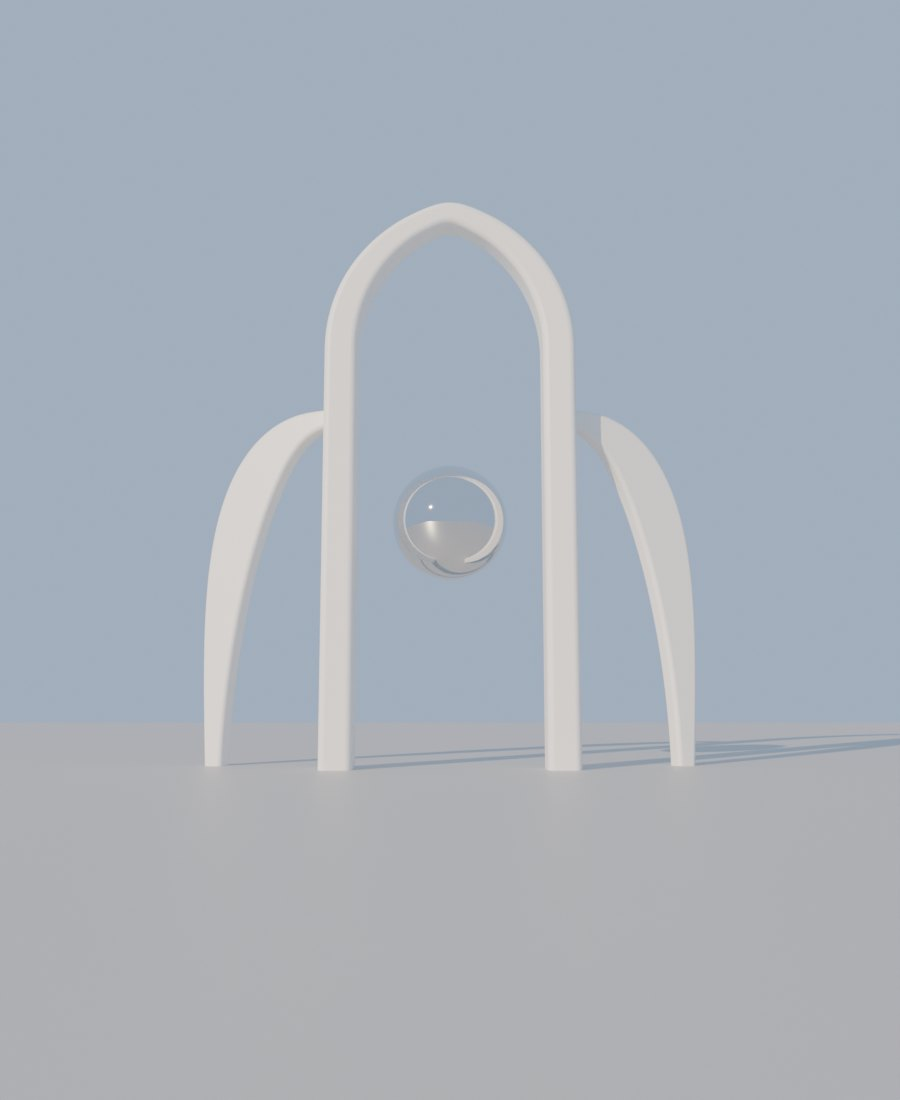
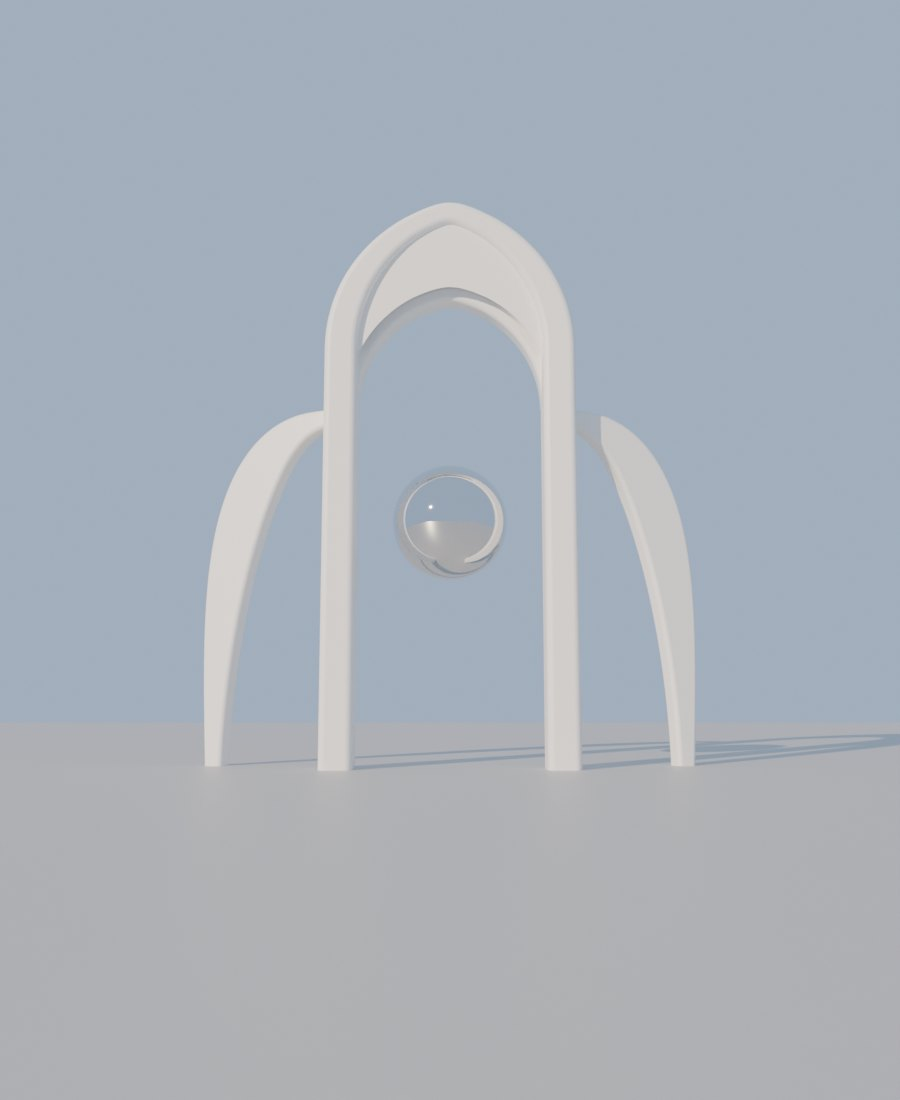
world: nested inner arch in the landmark crown
Add a lower lancet crown springing from the legs' inner faces, set back
into the band's depth, with a recessed web between the two crowns, so the
crown shows the mockup's double outline. 12.7k triangles in one draw;
spawn 140.1k triangles, 104 draws. No new footings.

Claude-Session: https://claude.ai/code/session_01BtzidGomHJcCgLuWB6rxCd

Changed region(s): [[0.4044, 0.1855, 0.6222, 0.34]]

diff --git a/tools/blender/landmark.py b/tools/blender/landmark.py
@@ -35,23 +35,29 @@ SPAN = 10.0  # distance between main leg centers
 SPRING = 19.0  # where the legs turn into the crown
 LANCET = 1.4  # crown arc radius as a multiple of the half-span (1 = round, 2 = equilateral)
 HEIGHT = SPRING + math.sqrt((LANCET * SPAN / 2) ** 2 - ((LANCET - 1) * SPAN / 2) ** 2)  # apex, ≈ 25.7
+# Nested inner arch: a lower lancet crown springing from the inner side of the main legs, set
+# back into the band's depth, with a recessed web filling the space between the two crowns.
+INNER_HALF = SPAN / 2 - 0.3  # inner crown ends, buried in the main legs
+INNER_SPRING = 16.5
+INNER_LANCET = 1.2
+INNER_BACK = 0.6  # inner crown plane behind the main arch's center plane
+WEB_BACK = 0.45  # web front face, behind the main band's front face (at -1.0 at the crown)
 WING_FOOT = 11.2  # wing foot distance from the center, before yaw
 WING_JOIN = 0.62  # wing joins the leg at this fraction of HEIGHT
 WING_BACK = 0.5  # wing plane offset behind the main arch
 WING_YAW = math.radians(20)  # wing feet swing back by this much about the join
 
 
-def lancet_crown(steps: int) -> list[Vector]:
+def lancet_crown(steps: int, a: float = SPAN / 2, spring: float = SPRING, lancet: float = LANCET, y: float = 0.0) -> list[Vector]:
     """Two circular arcs, each centered level with the opposite side's spring, meeting at a point."""
-    a = SPAN / 2
-    radius = LANCET * a
+    radius = lancet * a
     top = math.acos((radius - a) / radius)
     half = steps // 2
     right = []
     for i in range(half + 1):
         phi = top * i / half  # 0 at the right spring, top at the apex
-        right.append(Vector((a - radius + radius * math.cos(phi), 0.0, SPRING + radius * math.sin(phi))))
-    left = [Vector((-p.x, 0.0, p.z)) for p in right]
+        right.append(Vector((a - radius + radius * math.cos(phi), y, spring + radius * math.sin(phi))))
+    left = [Vector((-p.x, y, p.z)) for p in right]
     pts = left + right[::-1][1:]
     # Soften the apex: the mockup's crown is gently pointed, not a gothic cusp.
     apex = len(pts) // 2
@@ -65,6 +71,40 @@ def main_path() -> list[Vector]:
     left = [Vector((-a, 0, z)) for z in (-0.4, SPRING * 0.5)]
     right = [Vector((a, 0, z)) for z in (SPRING * 0.5, -0.4)]
     return left + lancet_crown(96) + right
+
+
+def inner_crown() -> list[Vector]:
+    return lancet_crown(96, INNER_HALF, INNER_SPRING, INNER_LANCET, INNER_BACK)
+
+
+def web(outer: list[Vector], inner: list[Vector], front: float, thickness: float, name: str) -> bpy.types.Object:
+    """A thin plate lofted between two crown curves (equal point counts), facing the boulevard."""
+    verts, faces = [], []
+    n = len(outer)
+    for y in (front, front + thickness):
+        for o, i in zip(outer, inner):
+            verts.append((o.x, y, o.z))
+            verts.append((i.x, y, i.z))
+    back = 2 * n
+    for k in range(n - 1):
+        a, b, c, d = 2 * k, 2 * k + 1, 2 * k + 3, 2 * k + 2
+        faces.append((a, b, c, d))  # front face (toward -Y, the boulevard)
+        faces.append((back + a, back + d, back + c, back + b))
+    mesh = bpy.data.meshes.new(name)
+    mesh.from_pydata(verts, [], faces)
+    mesh.update()
+    # Flat plate: make the front face point at the boulevard whatever the loft winding produced.
+    for k, poly in enumerate(mesh.polygons):
+        if (poly.normal.y > 0) == (k % 2 == 0):
+            poly.flip()
+    uv = mesh.uv_layers.new(name='UVMap')
+    for loop in mesh.loops:
+        co = mesh.vertices[loop.vertex_index].co
+        uv.data[loop.index].uv = (co.x / 4.0, co.z / 4.0)
+    mesh.update()
+    obj = bpy.data.objects.new(name, mesh)
+    bpy.context.scene.collection.objects.link(obj)
+    return obj
 
 
 def bezier(p0: Vector, p1: Vector, p2: Vector, p3: Vector, steps: int) -> list[Vector]:
@@ -163,6 +203,10 @@ def build() -> tuple[bpy.types.Object, dict]:
         main, lambda i: Vector((0, 1, 0)),
         lambda f: 1.5 - 0.4 * _crownness(f), lambda f: 2.0 - 0.4 * _crownness(f), 0.32, 'arch_main',
     ))
+    # Inner arch: 0.9 m across, 1.2 m deep, springing from the legs' inner faces.
+    objects.append(sweep(inner_crown(), lambda i: Vector((0, 1, 0)), lambda f: 0.9, lambda f: 1.2, 0.25, 'arch_inner'))
+    # Web between the crowns, recessed so the double outline reads with a lit soffit between.
+    objects.append(web(lancet_crown(96), inner_crown(), -1.0 + WEB_BACK, 0.25, 'arch_web'))
     for side in (-1, 1):
         path = wing_path(side)
         yaw = WING_YAW * side

diff --git a/docs/LANDMARK_BLENDER.md b/docs/LANDMARK_BLENDER.md
@@ -25,9 +25,10 @@ In-app views are headless Chromium with SwiftShader at the high tier. Judge the 
 
 ## Delivered
 
-- **`tools/blender/landmark.py`.** Builds the whole sculpture as one mesh: 8.5k triangles, 56 kB meshopt-compressed.
+- **`tools/blender/landmark.py`.** Builds the whole sculpture as one mesh: 12.7k triangles, 84 kB meshopt-compressed.
   - **Main arch:** 10 m between leg centers. The legs rise straight to 19 m, then a lancet crown (arc radius 1.4 × half-span, apex softened) peaks at 25.7 m.
   - **Band section:** a rounded rectangle, 1.5 × 2.0 m at the base tapering to 1.1 × 1.6 m at the crown.
+  - **Nested inner arch:** a second, lower lancet crown (apex ≈ 22 m) springs from the inner faces of the legs at 16.5 m. It is set 0.6 m back into the band's depth. A recessed web fills the space between the two crowns, so from the boulevard the crown shows the mockup's double outline with a lit band between. It adds no ground contacts.
   - **Wings:** crescent blades up to 2.5 m wide. Each rises from the ground outside a leg and joins it at 0.62 of the height, set 0.5 m behind the leg and yawed 20° back for depth.
   - **Footings:** the model records its ground contacts as mesh extras.
 - **World integration.**
@@ -42,10 +43,11 @@ In-app views are headless Chromium with SwiftShader at the high tier. Judge the 
 
 | View | Draws (trees → + landmark) | Triangles (trees → + landmark) |
 | --- | --- | --- |
-| high · spawn | 106 → 104 | 139.1k → 135.9k |
-| high · plaza | 75 → 73 | 124.6k → 121.4k |
-| high · storefront | 50 → 50 | — → 102.1k |
-| low · spawn | 84 → 82 | 98.3k → 95.0k |
+| high · spawn | 106 → 104 | 139.1k → 140.1k |
+| high · plaza | 75 → 73 | 124.6k → 125.6k |
+| low · spawn | 84 → 82 | 98.3k → 99.3k |
+
+Without the nested inner arch (first landmark commit), spawn was 135.9k. The inner arch and web add 4.2k triangles and no draw calls.
 
 ## Verified execution (local, Node 26.10.0)
 
@@ -54,9 +56,10 @@ In-app views are headless Chromium with SwiftShader at the high tier. Judge the 
 | `npm run verify` | 68 unit tests passed, including the new landmark and tree model checks; build and artifact check passed. The dist check requires both GLBs. |
 | Lifecycle | 53 passed, 9 skipped by design. |
 | Browser | 23 passed. The same five container-specific specs fail as on the untouched base (see [TREES_BLENDER.md](TREES_BLENDER.md)). The HUD menu spec also failed once: loading exceeded its 5 s wait under parallel workers. Production time-to-ready (6 runs, SwiftShader) was 2.9–3.2 s against the base's 2.7–2.9 s. `models.ts` now fetches each GLB in parallel with the loader chunk, which brings the median to 3.0 s against 2.9 s. HUD and district specs then passed 18/18 with `--repeat-each=3`. |
-| Visual | Spawn and plaza views on SwiftShader at the high tier, compared with the mockup crop above. |
+| Visual | Spawn and plaza views on SwiftShader at the high tier, compared with the mockup crop above (re-shot with the nested inner arch). |
+| Nested inner arch | `npm test` 68 passed; build and artifact check passed; HUD and district browser specs rerun (see the handoff). |
 
 ## Not done / next
 
 - Real-GPU comparison. Under the golden-hour backlight, bloom and haze wash the arch toward white. That comes from the existing lighting and material, which this change leaves untouched.
-- The mockup's crown shows a faint second inner outline, which may be a nested inner arch. The depth band gives a similar read; a true nested arch could be added if wanted.
+- The web between the crowns is a flat plate. A curved soffit would catch light more like the mockup's, at a few hundred more triangles.

diff --git a/tools/blender/README.md b/tools/blender/README.md
@@ -8,7 +8,7 @@ Nothing here runs in CI or the app bundle.
 | Script | Output | What it makes |
 | --- | --- | --- |
 | `trees.py` | `public/world/models/trees.glb` | Three upright street trees and the leaning framing tree, each at two levels of detail, with a generated leaf-spray atlas and bark texture. |
-| `landmark.py` | `public/world/models/landmark.glb` | The landmark's sculpture: a lancet main arch and two crescent wings, as one mesh. The orb, fountain, and footings stay in code. |
+| `landmark.py` | `public/world/models/landmark.glb` | The landmark's sculpture: a lancet main arch with a nested inner crown and recessed web, and two crescent wings, as one mesh. The orb, fountain, and footings stay in code. |
 
 ## Setup
 
@@ -53,11 +53,11 @@ file fails to load, the district falls back to its procedural trees.
 - Its material is replaced by the district's satin `arch` material. Until the file loads, and if it fails, a procedural lancet stands in.
 - Mesh extras `height`, `span`, and `footings` (ground contacts in the model frame). `tests/unit/landmark-model.test.mjs` checks the footings against `landmarkFootings()` in `layout.ts`, which drives the navigation blockers and stone footing geometry.
 
-If you change `SPAN`, `SPRING`, `LANCET`, or the `WING_*` constants, update `district.landmark` in `layout.ts` to the printed footings. The unit test fails until the two agree.
+If you change `SPAN`, `SPRING`, `LANCET`, or the `WING_*` constants (the `INNER_*` ones touch no footings), update `district.landmark` in `layout.ts` to the printed footings. The unit test fails until the two agree.
 
 ## Budgets
 
-The landmark is ~8.5k triangles in one draw call. For trees, LOD0 is used for the 28 trees in planters and on the terrace (≈1.5k triangles, 2k for the
+The landmark is ~12.7k triangles in one draw call. For trees, LOD0 is used for the 28 trees in planters and on the terrace (≈1.5k triangles, 2k for the
 framing tree); LOD1 for up to 100 grove and street trees (≈390 triangles). Keep spawn under
 the 150k-triangle and 120-draw budgets in `docs/PERFORMANCE_BUDGET.md`, and re-measure with
 `node scripts/measure.mjs` after any change to counts.

diff --git a/docs/PERFORMANCE_BUDGET.md b/docs/PERFORMANCE_BUDGET.md
@@ -78,7 +78,7 @@ It renders four fixed views synchronously, forcing GPU completion with a 1-pixel
 | High tier, desktop 1440×900, reference GPU (M5), median | ≤ 6 ms (≥ 2.5× headroom under 16.7 ms) | 2.7 ms |
 | High tier, DPR 2, reference GPU, median | ≤ 8 ms | 5.0 ms |
 | Draw calls at spawn | ≤ 120 | 104 (Blender trees and landmark, SwiftShader count) |
-| Triangles in view | ≤ 150k | 136k at spawn (Blender trees and landmark, SwiftShader count) |
+| Triangles in view | ≤ 150k | 140k at spawn (Blender trees and landmark, SwiftShader count) |
 | Initial transfer | ≤ 5 MB | 2.27 MB |
 | Local assets ready (broadband) | ≤ 2 s | about 0.5 s |
 | JS bundle (uncompressed) | ≤ 750 kB | 717 kB main + 71 kB lazy glTF loader |
@@ -95,12 +95,12 @@ It renders four fixed views synchronously, forcing GPU completion with a 1-pixel
 
 Frame time on the reference GPU is not yet re-measured.
 
-**Blender landmark (2026-09-25).** The arch sculpture comes from `public/world/models/landmark.glb` as one ~8.5k-triangle mesh, replacing three procedural ribbons (see [LANDMARK_BLENDER.md](LANDMARK_BLENDER.md)). SwiftShader counts, high tier:
+**Blender landmark (2026-09-25).** The arch sculpture comes from `public/world/models/landmark.glb` as one ~12.7k-triangle mesh (with the nested inner arch), replacing three procedural ribbons (see [LANDMARK_BLENDER.md](LANDMARK_BLENDER.md)). SwiftShader counts, high tier:
 
-- Spawn: 106 → 104 draws, 139.1k → 135.9k triangles.
-- Plaza: 121.4k triangles.
+- Spawn: 106 → 104 draws, 139.1k → 140.1k triangles.
+- Plaza: 125.6k triangles.
 
-The GLB adds 56 kB of transfer.
+The GLB adds 84 kB of transfer.
 
 ## Quality tiers
 

diff --git a/public/world/LICENSES.md b/public/world/LICENSES.md
@@ -14,7 +14,7 @@ project media is stored here.
 | `textures/rock_boulder_dry_*.webp` | Rock Boulder Dry | Dimitrios Savva (photography), Rico Cilliers (processing) | https://polyhaven.com/a/rock_boulder_dry | 1k set; diffuse brightened and desaturated to 35%; roughness at half size; WebP. |
 | `textures/red_oak_veneer_*.webp` | Red Oak Veneer | Jenelle van Heerden | https://polyhaven.com/a/red_oak_veneer | 1k set; roughness at half size; WebP. |
 
-| `models/landmark.glb` | Landmark sculpture (lancet arch, crescent wings) | Demo District (generated) | `tools/blender/landmark.py` | Original work generated from code after the approved mockup's silhouette; built with Blender 5.0 (`bpy`) and meshopt-compressed with glTF Transform. |
+| `models/landmark.glb` | Landmark sculpture (lancet arch with nested inner crown, crescent wings) | Demo District (generated) | `tools/blender/landmark.py` | Original work generated from code after the approved mockup's silhouette; built with Blender 5.0 (`bpy`) and meshopt-compressed with glTF Transform. |
 | `models/trees.glb` | District trees (4 species × 2 LODs, leaf-spray atlas, bark texture) | Demo District (generated) | `tools/blender/trees.py` | Original work generated from code with fixed seeds; no external inputs. Built with Blender 5.0 (`bpy`) and meshopt-compressed with glTF Transform. |
 
 Procedural textures (leaf clusters, hedges, lawn, grass tufts, city facades) are generated in the browser
